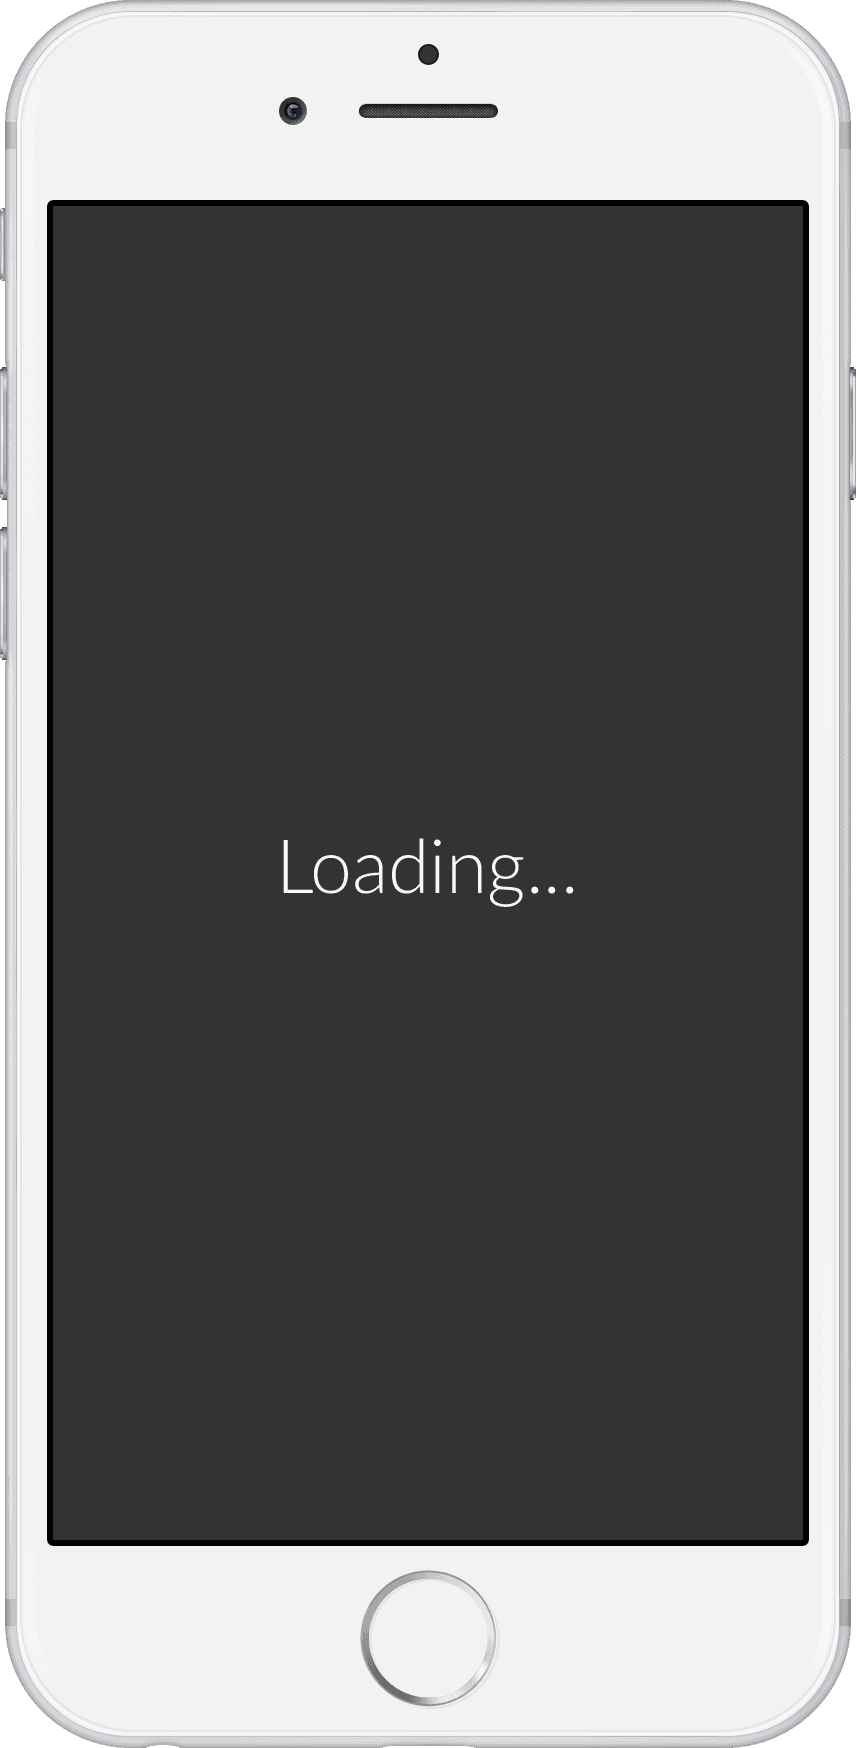
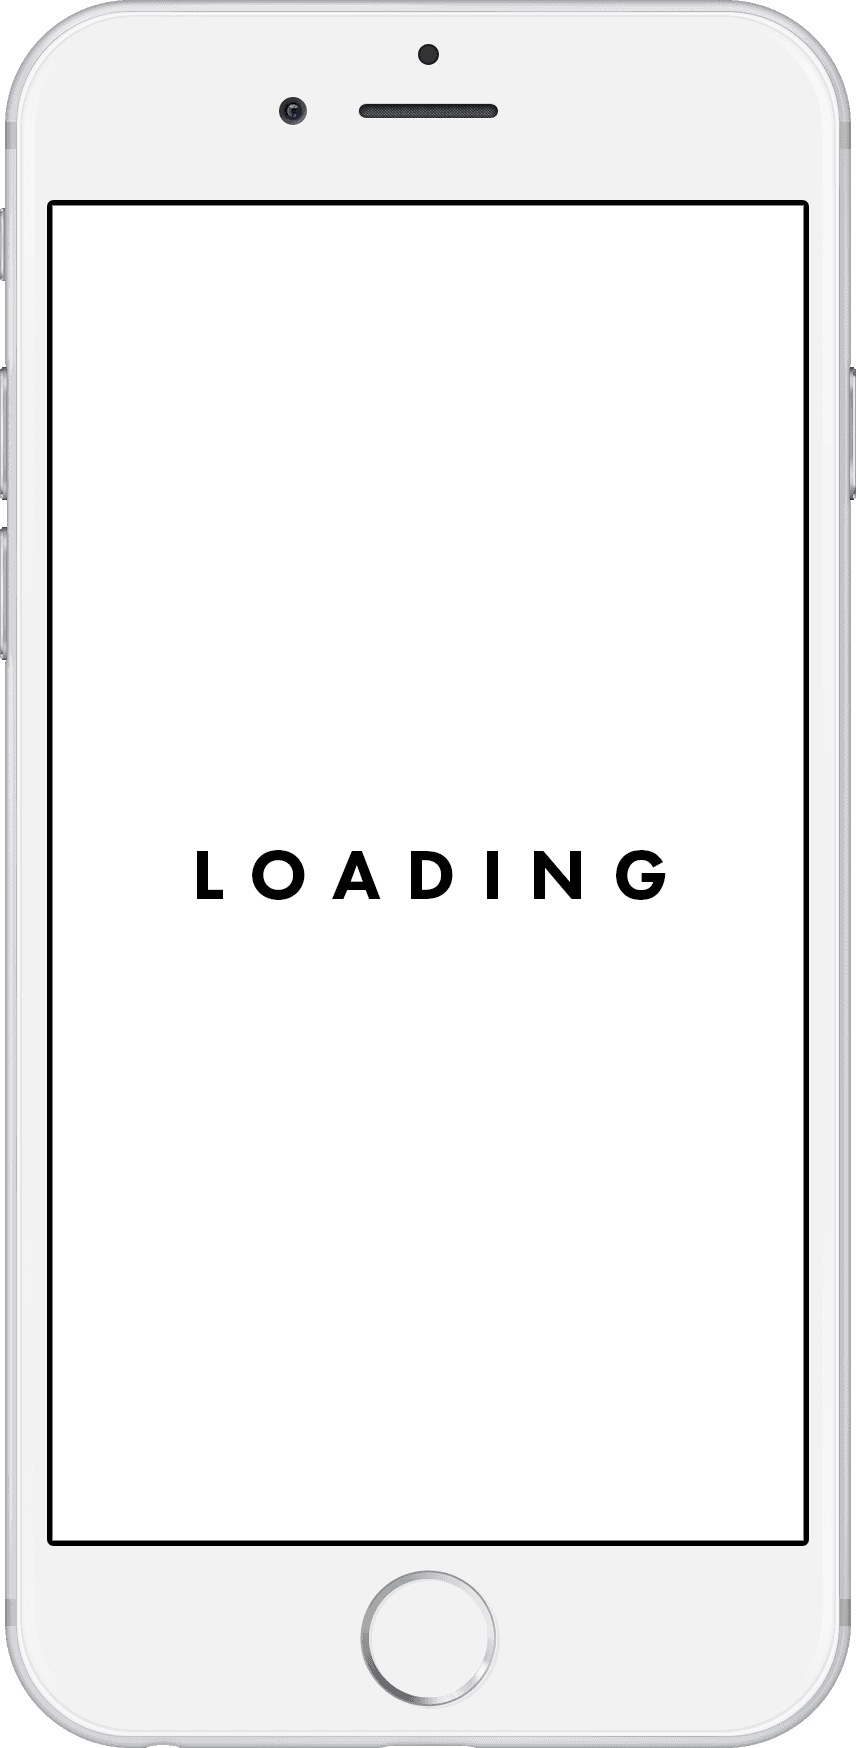
Updates loading images.

diff --git a/config.rb b/config.rb
@@ -65,7 +65,7 @@ configure :build do
   activate :minify_javascript
 
   # Enable cache buster
-  activate :asset_hash, ignore: 'favicon.png|open_graph.jpg|apple-touch-icon.png|phone_loading.png|plain_loading.png|images/role/|images/phoodie/|images/profile/|images/nbu/'
+  activate :asset_hash, ignore: 'favicon.png|open_graph.jpg|apple-touch-icon.png|phone_loading.png|phone_loading_landscape.png|plain_loading.png|plain_loading_landscape.png|rect_loading.png|images/role/|images/phoodie/|images/profile/|images/nbu/'
 
   # Use relative URLs
   activate :relative_assets
